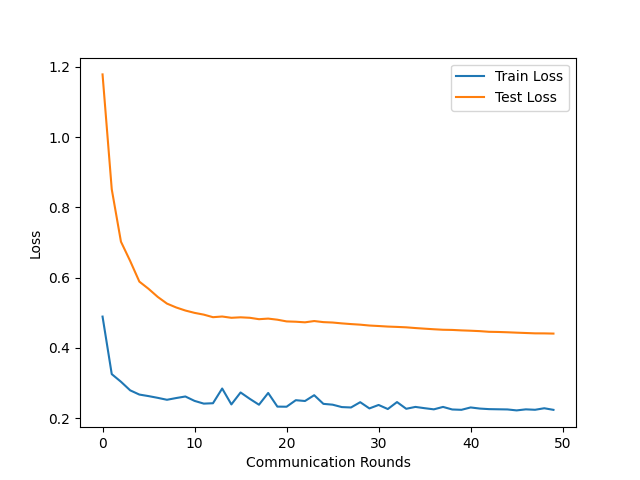
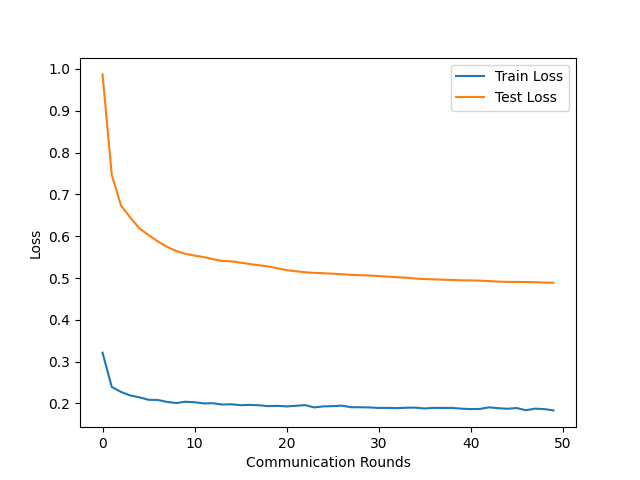
update cifar

diff --git a/models/Nets.py b/models/Nets.py
@@ -42,23 +42,22 @@ class ClientModelCifar(nn.Module):
         super(ClientModelCifar, self).__init__()
         self.conv1 = nn.Conv2d(3, 6, 5)
         self.pool = nn.MaxPool2d(2, 2)
+        self.conv2 = nn.Conv2d(6, 16, 5)
 
     def forward(self, x):
-        print(x.shape)
         x = self.pool(F.relu(self.conv1(x)))
+        x = self.pool(F.relu(self.conv2(x)))
         return x
 
 class ServerModelCifar(nn.Module):
     def __init__(self, num_classes):
         super(ServerModelCifar, self).__init__()
-        self.conv2 = nn.Conv2d(6, 16, 5)
-        self.fc1 = nn.Linear(16 * 5 * 5, 120)
+        self.fc1 = nn.Linear(32 * 1 * 5, 120)
         self.fc2 = nn.Linear(120, 84)
         self.fc3 = nn.Linear(84, num_classes)
         self.pool = nn.MaxPool2d(2,2)
     def forward(self, x):
-        x = self.pool(F.relu(self.conv2(x)))
-        x = x.view(-1, 16 * 5 * 5)
+        x = x.view(-1, 32 * 1 * 5)
         x = F.relu(self.fc1(x))
         x = F.relu(self.fc2(x))
         x = self.fc3(x)
@@ -102,15 +101,20 @@ class VHFLGroup(nn.Module):
         self.opt_s.step()
     
 class VHFLGroupCifar(nn.Module):
-    def __init__(self):
+    def __init__(self, opt, lr):
         super(VHFLGroupCifar, self).__init__()
         self.client_model_1 = ClientModelCifar()
         self.client_model_2 = ClientModelCifar()
         self.server = ServerModelCifar(10)
 
-        self.opt_c1 = torch.optim.SGD(params=self.client_model_1.parameters(),lr=0.01)
-        self.opt_c2 = torch.optim.SGD(params=self.client_model_2.parameters(),lr=0.01)
-        self.opt_s = torch.optim.SGD(params=self.server.parameters(),lr=0.1)
+        if opt == "SGD":
+            self.opt_c1 = torch.optim.SGD(params=self.client_model_1.parameters(),lr=lr)
+            self.opt_c2 = torch.optim.SGD(params=self.client_model_2.parameters(),lr=lr)
+            self.opt_s = torch.optim.SGD(params=self.server.parameters(),lr=lr)
+        elif opt == "Adam":
+            self.opt_c1 = torch.optim.Adam(params=self.client_model_1.parameters(),lr=lr)
+            self.opt_c2 = torch.optim.Adam(params=self.client_model_2.parameters(),lr=lr)
+            self.opt_s = torch.optim.Adam(params=self.server.parameters(),lr=lr)
 
     def forward(self, x1, x2):
         x1 = self.client_model_1(x1)

diff --git a/main_fed.py b/main_fed.py
@@ -116,8 +116,6 @@ if __name__ == '__main__':
         # img_1 = torch.cat(img[0])  # get the first split of the data
         # img_2 = torch.cat(img[1])  # get the second split of the data
 
-        print(img_1.shape)
-
 
 
         # img_1 = img_1.view(img_1.shape[0], -1)
@@ -143,11 +141,7 @@ if __name__ == '__main__':
         dict_users_VFL = cifar_iid(dataset_train_VFL, 2)
         
 
-        img_test, label_test, _ = split_VFL_data(dataset_test)
-        img_test_1 = torch.cat(img_test[0])  # get the first split of the data
-        img_test_2 = torch.cat(img_test[1])  # get the second split of the data
-        img_test_1 = img_test_1.view(img_test_1.shape[0], -1)
-        img_test_2 = img_test_2.view(img_test_2.shape[0], -1)
+        img_test_1, img_test_2, label_test, _ = SplitImageDataset(dataset_test)
         dataset_test = imageVFL(img_test_1, img_test_2, label_test)
 
 
@@ -198,8 +192,10 @@ if __name__ == '__main__':
     # img_size = dataset_train[0][0].shape
 
     # build model
-    net_glob = VHFLGroup(args.opt, args.lr)
-    # net_glob = VHFLGroupCifar()
+    if args.dataset == 'mnist' or args.dataset =='fmnist':
+        net_glob = VHFLGroup(args.opt, args.lr)
+    elif args.dataset == 'cifar':
+        net_glob = VHFLGroupCifar(args.opt, args.lr)
     net_glob.train()
 
     # copy weights

diff --git a/models/Update.py b/models/Update.py
@@ -26,7 +26,8 @@ class DatasetSplit(Dataset):
 class LocalUpdate(object):
     def __init__(self, args, dataset=None, idxs=None):
         self.args = args
-        self.loss_func = nn.NLLLoss()
+        # self.loss_func = nn.NLLLoss()
+        self.loss_func = nn.CrossEntropyLoss()
         self.selected_clients = []
         self.ldr_train = DataLoader(DatasetSplit(dataset, idxs), batch_size=self.args.local_bs, shuffle=True)
 
